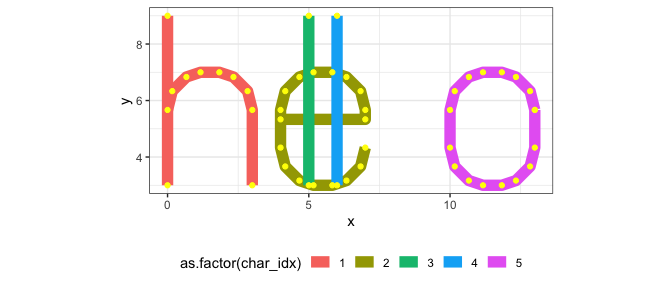
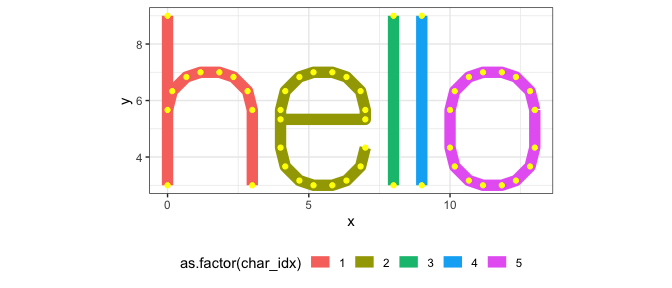
optimisation of vector done

Changed region(s): [[0.5625, 0.0312, 0.6562, 0.6562], [0.4375, 0.0312, 0.5312, 0.6562]]

diff --git a/README.md b/README.md
@@ -247,26 +247,26 @@ vector_text_coords("Hello", font = 'gridfont_smooth') |>
     #> 497        1       104          2         2 0.1666667 6.333333    0 0.1666667
     #> 498        1       104          2         3 0.6666667 6.833333    0 0.6666667
     #> 499        1       104          2         4 1.1666667 7.000000    0 1.1666667
-    #>           y0
-    #> 494 9.000000
-    #> 495 3.000000
-    #> 496 5.666667
-    #> 497 6.333333
-    #> 498 6.833333
-    #> 499 7.000000
+    #>           y0 width xoffset
+    #> 494 9.000000     4       0
+    #> 495 3.000000     4       0
+    #> 496 5.666667     4       0
+    #> 497 6.333333     4       0
+    #> 498 6.833333     4       0
+    #> 499 7.000000     4       0
 
 ``` r
 vector_text_matrix("Hello", "gridfont_smooth", scale = 1) 
 ```
 
     #>       [,1] [,2] [,3] [,4] [,5] [,6] [,7] [,8] [,9] [,10] [,11] [,12] [,13]
-    #>  [1,]    1    0    0    0    0    1    1    0    0     0     0     0     0
-    #>  [2,]    1    0    0    0    0    1    1    0    0     0     0     0     0
-    #>  [3,]    1    1    1    0    0    1    1    0    0     0     0     1     1
-    #>  [4,]    1    0    0    1    1    1    1    1    0     0     1     0     0
-    #>  [5,]    1    0    0    1    1    1    1    1    0     0     1     0     0
-    #>  [6,]    1    0    0    1    1    1    1    1    0     0     1     0     0
-    #>  [7,]    1    0    0    0    0    1    1    0    0     0     0     1     1
+    #>  [1,]    1    0    0    0    0    0    0    0    1     1     0     0     0
+    #>  [2,]    1    0    0    0    0    0    0    0    1     1     0     0     0
+    #>  [3,]    1    1    1    0    0    1    1    0    1     1     0     1     1
+    #>  [4,]    1    0    0    1    1    0    0    1    1     1     1     0     0
+    #>  [5,]    1    0    0    1    1    1    1    1    1     1     1     0     0
+    #>  [6,]    1    0    0    1    1    0    0    1    1     1     1     0     0
+    #>  [7,]    1    0    0    0    0    1    1    0    1     1     0     1     1
     #>  [8,]    0    0    0    0    0    0    0    0    0     0     0     0     0
     #>  [9,]    0    0    0    0    0    0    0    0    0     0     0     0     0
     #> [10,]    0    0    0    0    0    0    0    0    0     0     0     0     0
@@ -283,7 +283,7 @@ vector_text_matrix("Hello", "gridfont_smooth", scale = 1)
     #> [10,]     0
 
 ``` r
-vector_text_raster("Hello", "gridfont_smooth") |>
+vector_text_raster("Hello\n#RStats!", "gridfont_smooth", scale = 5) |>
   plot(interpolate = FALSE)
 ```
 
@@ -307,15 +307,16 @@ coords <- vector_text_coords("Hello", "gridfont_smooth")
 head(coords)
 ```
 
-    #> # A tibble: 6 × 9
-    #>   char_idx codepoint stroke_idx point_idx     x     y  line    x0    y0
-    #>      <int>     <int>      <int>     <int> <dbl> <dbl> <int> <dbl> <dbl>
-    #> 1        1       104          1         1 0      9        0 0      9   
-    #> 2        1       104          1         2 0      3        0 0      3   
-    #> 3        1       104          2         1 0      5.67     0 0      5.67
-    #> 4        1       104          2         2 0.167  6.33     0 0.167  6.33
-    #> 5        1       104          2         3 0.667  6.83     0 0.667  6.83
-    #> 6        1       104          2         4 1.17   7        0 1.17   7
+    #> # A tibble: 6 × 11
+    #>   char_idx codepoint stroke_idx point_idx     x     y  line    x0    y0 width
+    #>      <int>     <int>      <int>     <int> <dbl> <dbl> <int> <dbl> <dbl> <int>
+    #> 1        1       104          1         1 0      9        0 0      9        4
+    #> 2        1       104          1         2 0      3        0 0      3        4
+    #> 3        1       104          2         1 0      5.67     0 0      5.67     4
+    #> 4        1       104          2         2 0.167  6.33     0 0.167  6.33     4
+    #> 5        1       104          2         3 0.667  6.83     0 0.667  6.83     4
+    #> 6        1       104          2         4 1.17   7        0 1.17   7        4
+    #> # ℹ 1 more variable: xoffset <int>
 
 ``` r
 ggplot(coords) +
